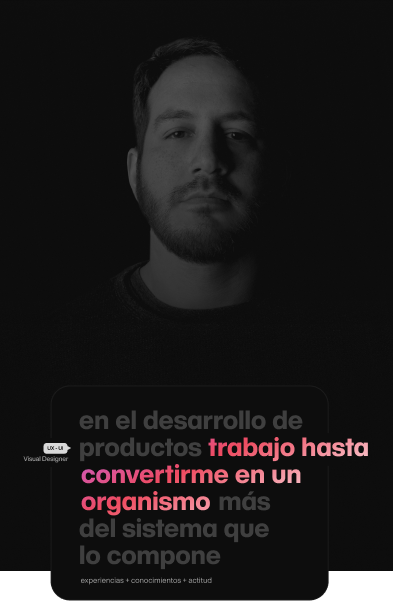
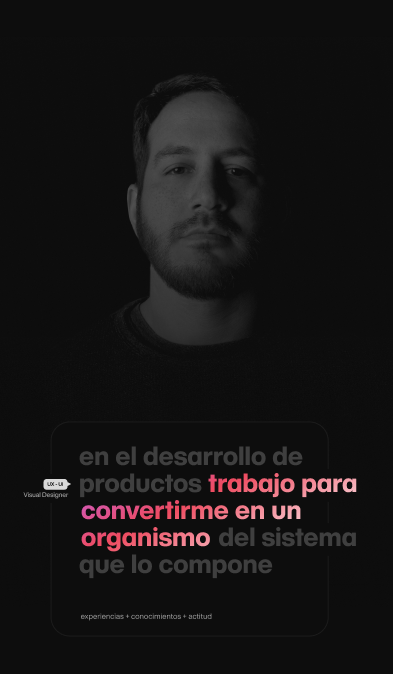
se corrigen errores ortograficos en pagina de inicio y se ajusta imagen principal

diff --git a/index.html b/index.html
@@ -40,8 +40,8 @@
                 <div class="col">
                     <img src="./assets/images/index-2.png" class="img-principal" alt="imagen ux-ui">
                     <img src="./assets/images/img-principal-media.png" class="img-media img-fluid" alt="">
-                    <p class="col-lg-7 col ms-5 me-4 about-me ">Diseñador de profesión con más de 10 años experiencia en el ecosistema de agencias y desde hace más de 
-                    4 años me he orientado a crear productos digitales que se traduzcan en experiencias positivas para las personas y de éxito para las marcas.<br><br>Creo fielmente en la comunicación constante con el equipo para crear una total sinergia entre 
+                    <p class="col-lg-7 col ms-5 me-4 about-me ">Diseñador de profesión con más de 10 años de experiencia en el ecosistema de agencias y desde hace más de 
+                        4 años me he orientado a crear productos digitales que se traduzcan en experiencias positivas para las personas y de éxito para las marcas.<br><br>Creo fielmente en la comunicación constante con el equipo para crear una total sinergia entre  
                     <strong>Producto + Diseño + Desarrollo</strong> y así trabajar con la mayor agilidad posible.</be></p>
                 </div>
             </div>
@@ -56,7 +56,7 @@
                 <div class="col-lg-4 col-12  skills">
                     <img src="./assets/logos/ux-research.png" alt="" class="mb-4">
                     <h6>User research</h6>
-                    <p class="col-8 mb-5">Realizar investigaciones de usuarios y comprender el usuario necesita informar las decisiones de diseño a producto.</p>
+                    <p class="col-8 mb-5">Realizar investigaciones de usuarios y comprender las necesidades del usuario y así informar las decisiones de diseño a producto.</p>
                 </div>
                 <div class="col-lg-4 col-12  skills">
                     <img src="./assets/logos/ui-design.png" alt="" class="mb-4">
@@ -73,7 +73,7 @@
                 <div class="col-lg-4 col-12  skills">
                     <img src="./assets/logos/design-system.png" alt="" class="mb-4">
                     <h6>Design thinking</h6>
-                    <p class="col-8 mb-5">Resolución de problemas basándonos empatía hacia los usuarios, generando de ideas creativas, factibles y rápidas de desarrollar centrándonos en los usuarios. </p>
+                    <p class="col-8 mb-5">Resolución de problemas basándonos en la empatía con los usuarios, generando de ideas creativas, factibles y rápidas de desarrollar centrándonos en los usuarios.</p>
                 </div>
                 <div class="col-lg-4 col-12  skills">
                     <img src="./assets/logos/planing.png" alt="" class="mb-4">
